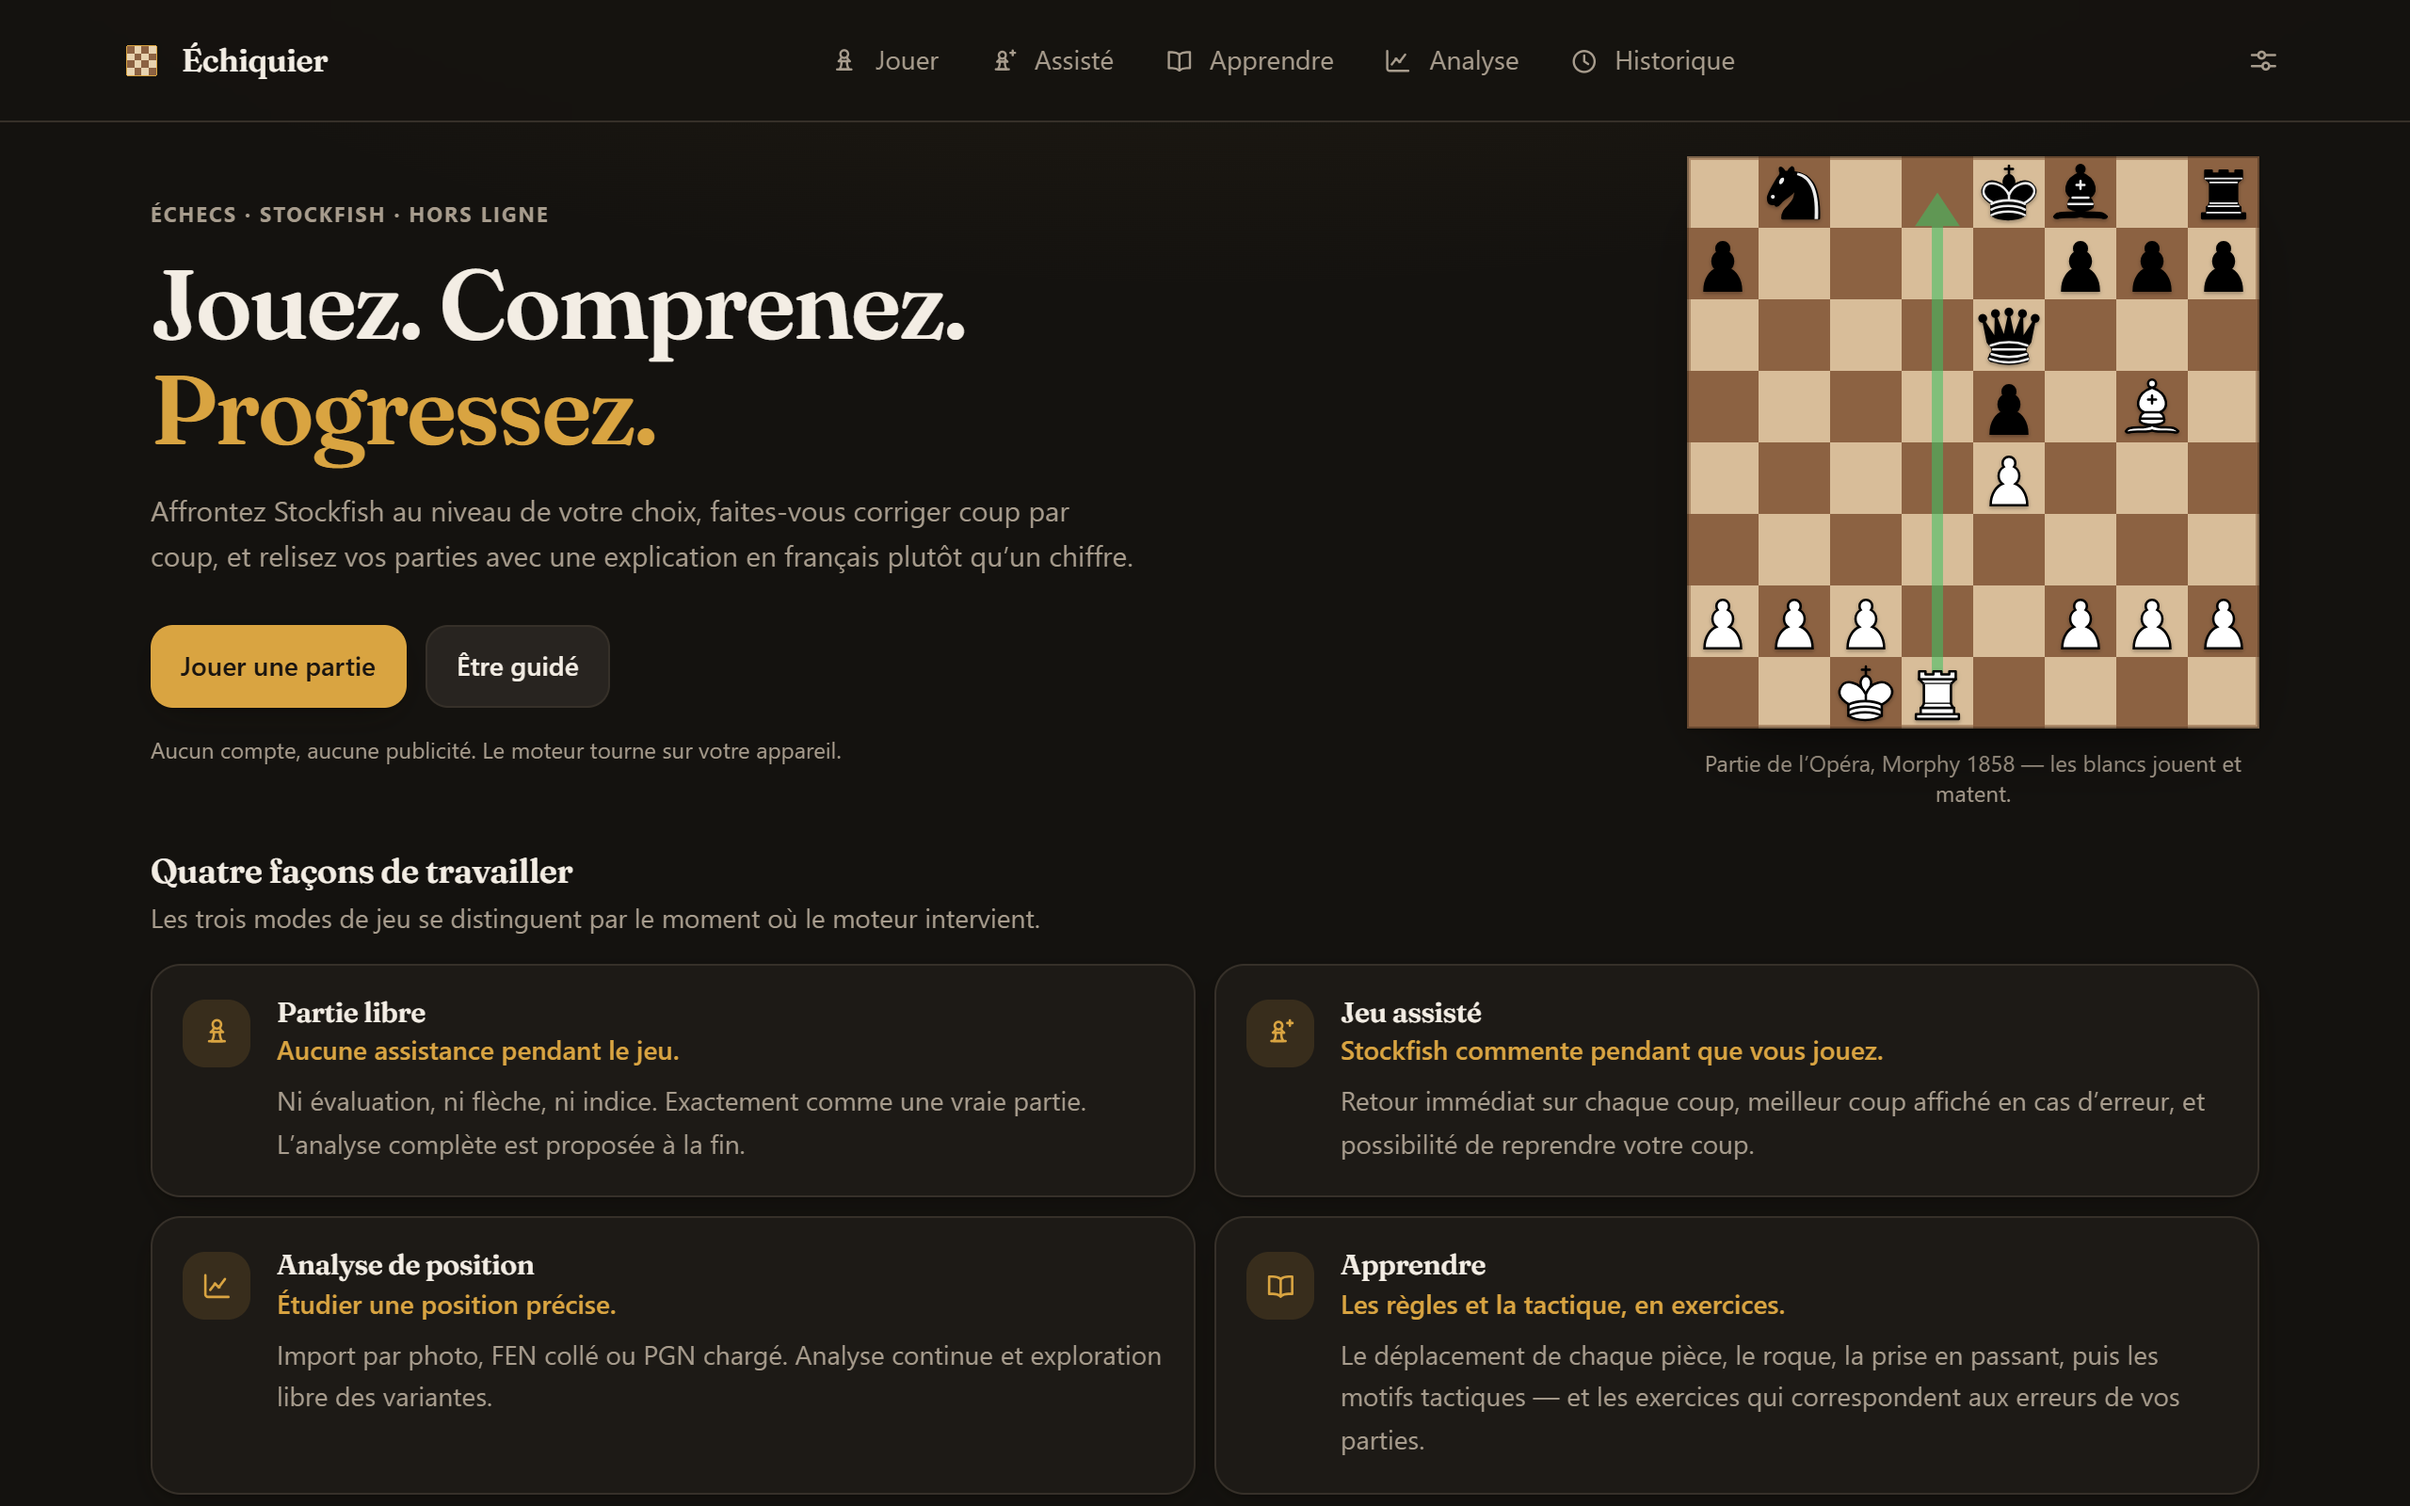
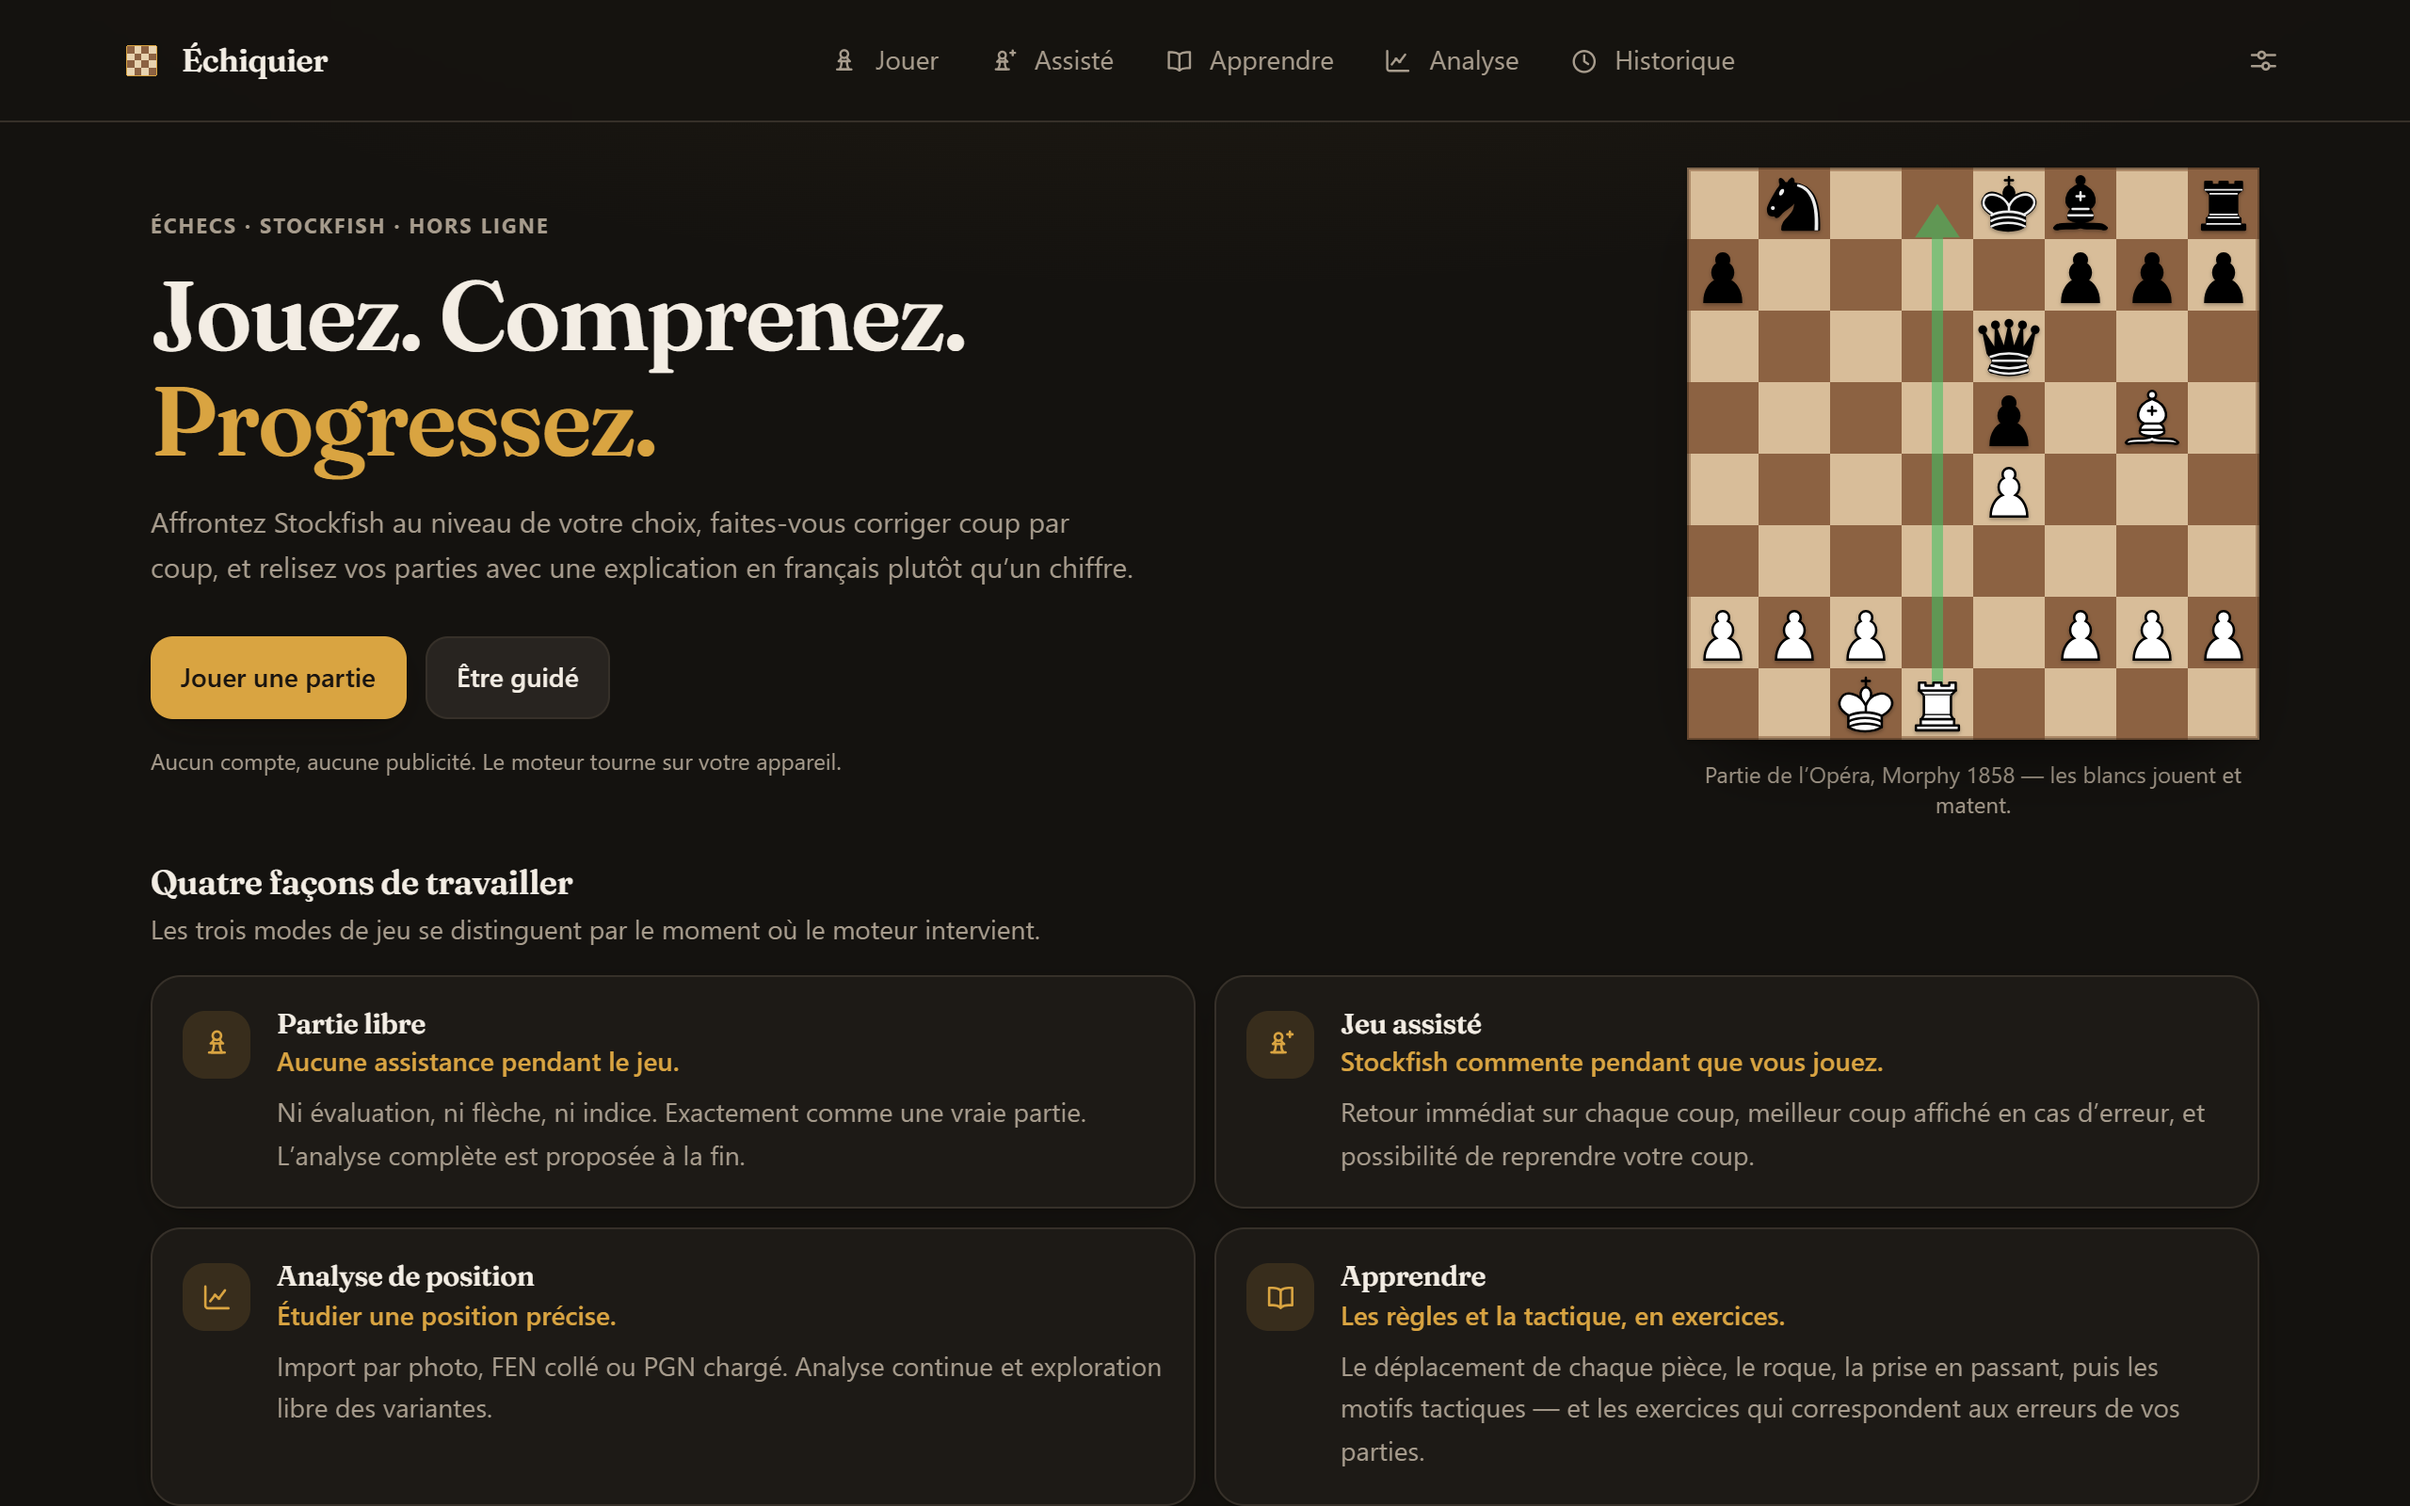
README : professeurs, échelle de force corrigée, captures
La section des niveaux décrivait six paliers et un mécanisme qui ne
fonctionnait pas. Elle explique désormais pourquoi les leviers évidents
échouent — `UCI_LimitStrength` neutralise `Skill Level`, le plancher
d'`UCI_Elo` est dur, et `go depth 1` n'est pas faible à cause de la
recherche de quiescence — et par quoi ils sont remplacés.

Les résultats de matchs affichés sont ceux du mode reproductible, à
profondeur fixe et tirage à graine. Les chiffres précédents variaient avec la
charge de la machine et ne prouvaient rien.

S'ajoutent la présentation des quatre professeurs, la description de
l'animation des portraits, et les captures régénérées.

diff --git a/README.md b/README.md
@@ -30,6 +30,28 @@ intervient** — c'est la seule chose à comprendre pour choisir.
 S'y ajoute **Apprendre** : les règles en exercices jouables, la tactique par
 motif, et les exercices correspondant aux erreurs relevées dans vos parties.
 
+### Quatre professeurs
+
+En jeu assisté, vous choisissez un professeur et vous lui dites votre niveau.
+Il joue alors à la force correspondante et commente vos coups avec sa voix.
+
+| Professeur | Accompagne | Voix |
+|---|---|---|
+| **L'Homme Ultime** | Joueurs confirmés | Souverain. Ne console jamais, ne doute jamais, ne répète pas deux fois. |
+| **Ephraim** | Niveau club | Précis et méthodique. Remonte à la structure, donne les coups dans l'ordre. |
+| **Johana** | Débutants | Directe et bienveillante. Exige qu'on aille au bout, sans prendre par la main. |
+| **Serena** | Joueurs intermédiaires | Cultivée. Passe par l'histoire du jeu avant de revenir à la position — mais elle y revient. |
+
+Le niveau déclaré décide du vocabulaire **et** du palier auquel le professeur
+joue, borné par l'intervalle de chacun : demander « confirmé » à Johana ne la
+fera pas jouer à 2400, et l'écran le dit en clair avant de commencer.
+
+Les commentaires sont produits **sans aucune API ni clé** : `professeurs.ts`
+re-voise ce que `explications.ts` a déduit de l'analyse de Stockfish. Un vrai
+modèle de langage pourra s'y substituer plus tard derrière la même interface
+`MoteurCommentaire`, exactement comme la reconnaissance de position expose
+déjà deux implémentations interchangeables.
+
 ![Le jeu assisté : verdict, meilleur coup, et la seule flèche de l'écran](docs/images/jeu-assiste.png)
 
 ### Les partis pris
@@ -51,19 +73,38 @@ hors ligne et sans clé.
 La phrase principale ne contient jamais d'évaluation chiffrée : « ce coup vous
 coûte 0,77 » n'apprend rien. Le nombre reste affiché à côté, plus petit.
 
-**Six niveaux nommés**, avec leur ordre de grandeur Elo. `Skill Level` seul ne
-descend pas assez bas — à 0, Stockfish joue encore vers 1350 Elo — et le
-plancher d'`UCI_Elo` est 1320. Les paliers bas brident donc aussi la
-**profondeur**, seul levier qui descende plus bas.
+**Sept paliers nommés** — 400, 800, 1200, 1600, 2000, 2400 et pleine force.
 
-`npm run test:niveaux` le vérifie en faisant jouer le moteur contre lui-même :
+Y arriver a demandé de comprendre pourquoi les leviers évidents ne marchent
+pas :
 
-| Palier | Perte moyenne | Bourdes (≥ 200 cp) |
-|---|---|---|
-| Débutant (~800) | 150 cp | 8 |
-| Amateur (~1200) | 91 cp | 5 |
-| Club (~1600) | 40 cp | 2 |
-| Maximum | 2 cp | 0 |
+- `UCI_LimitStrength` **neutralise** `Skill Level`. Quand la limitation par
+  Elo est active, Stockfish dérive sa force du seul `UCI_Elo` et ignore le
+  skill. « Débutant » et « Amateur » demandaient tous deux `UCI_Elo 1320` :
+  ils jouaient donc à l'identique, très au-dessus de leur Elo affiché.
+- Le plancher d'`UCI_Elo` est 1320, et c'est un plancher dur.
+- `go depth 1` n'est pas faible : la recherche de quiescence résout toutes
+  les prises, donc le moteur ne pend jamais une pièce. Mesuré vers 1200.
+
+Sous 1320, le seul levier qui descende vraiment est de **ne pas jouer le
+meilleur coup** : `src/lib/choixCoup.ts` demande plusieurs candidats
+(MultiPV) et tire parmi eux par un softmax sur la perte en centipions, plus
+une probabilité de bévue franche. Au-dessus de 2000, `UCI_LimitStrength`
+dégrade au lieu de calibrer — Fort battait Expert 8–0 — et les paliers hauts
+sont donc séparés par `Skill Level`, la profondeur et le temps.
+
+`npm run test:matchs` fait jouer les paliers les uns contre les autres,
+couleurs alternées, **à profondeur fixe et avec un tirage à graine** : sans
+cela, la charge de la machine faisait passer un même match de 94 % à 50 %.
+Deux exécutions donnent maintenant un résultat identique.
+
+| Paire | Score du palier fort |
+|---|---|
+| Grand débutant → Débutant | 6/6 |
+| Débutant → Amateur | 6/6 |
+| Amateur → Club | 6/6 |
+| Club → Fort | 6/6 |
+| Grand débutant → Club | 6/6 |
 
 **Import d'une position par photo.** Prenez en photo un échiquier réel ou
 collez une capture d'écran : la position est transcrite case par case, puis
@@ -86,6 +127,12 @@ La direction est assumée : un club d'échecs, pas un tableau de bord.
   petit corps, et gratuit.
 - **Des micro-animations courtes** — 260 ms au maximum, jamais de décalage de
   mise en page, et toutes coupées sous `prefers-reduced-motion`.
+- **Des portraits animés par calques** pour les professeurs. Les paupières ne
+  sont pas des formes dessinées mais des fragments de l'image elle-même,
+  prélevés juste au-dessus de l'œil et rabattus par `scaleY` : teinte et
+  ombrage se fondent exactement. Clignement tiré entre 3 et 6 secondes,
+  respiration, mouvement de tête et halo d'accent pendant la parole — le tout
+  en `transform` et `opacity` seulement, à 60 images par seconde.
 
 Les deux thèmes sont vérifiés au contraste : le texte courant tient 15:1 sur
 le fond, le texte secondaire 5,9:1, et l'accent 5,8:1 en thème clair. Aucune
@@ -163,6 +210,8 @@ npm run preview:sans-isolation  # sert dist/ SANS COOP/COEP, pour éprouver
                                 # le repli mono-thread de Stockfish
 npm run icones                  # régénère les icônes PWA
 npm run captures                # régénère les captures du README
+npm run test:matchs             # matchs entre paliers, reproductibles
+npm run portraits               # reconvertit PROFS/*.jpg en WebP multi-tailles
 ```
 
 Les tests navigateur supposent qu'une préversion tourne sur le port 4173 et
@@ -181,6 +230,8 @@ src/
   hooks/         état de partie, moteur, raccourcis clavier et gestes
   ui/            briques d'interface, icônes, échiquier (Chessground), écran de correction
   pages/         les écrans (accueil, jeu, analyse, apprendre, rapport, réglages)
+PROFS/           portraits sources des professeurs (JPEG 1024)
+public/profs/    les mêmes en WebP, cinq largeurs — produits par `npm run portraits`
 netlify/functions/
   reconnaitre.mjs  proxy vers le modèle multimodal — garde la clé d'API hors du bundle
 ```
